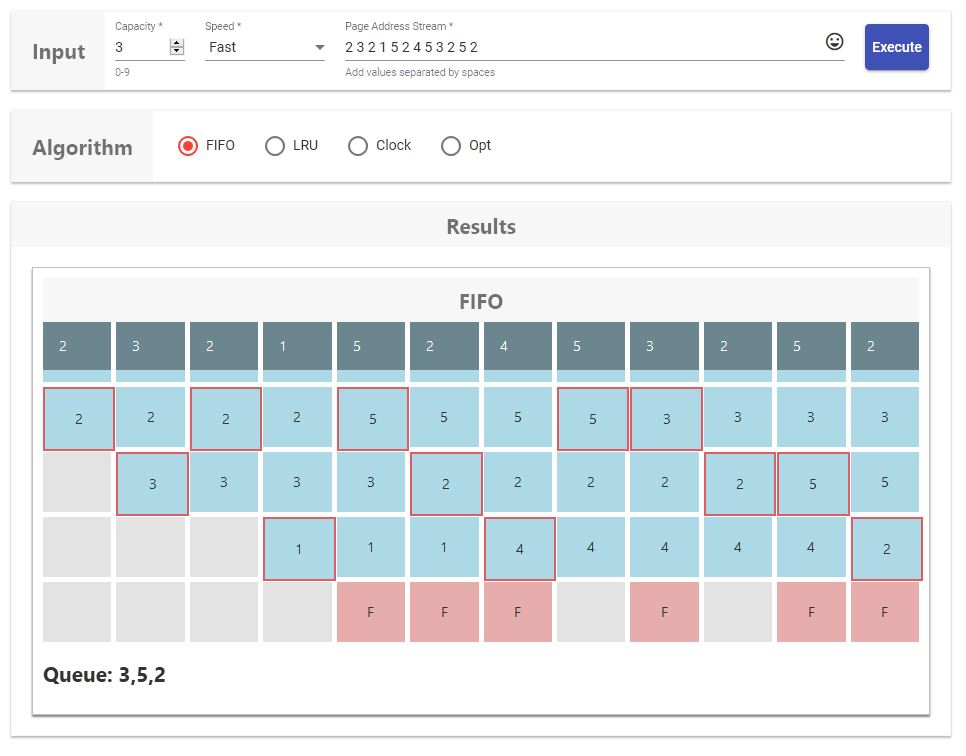
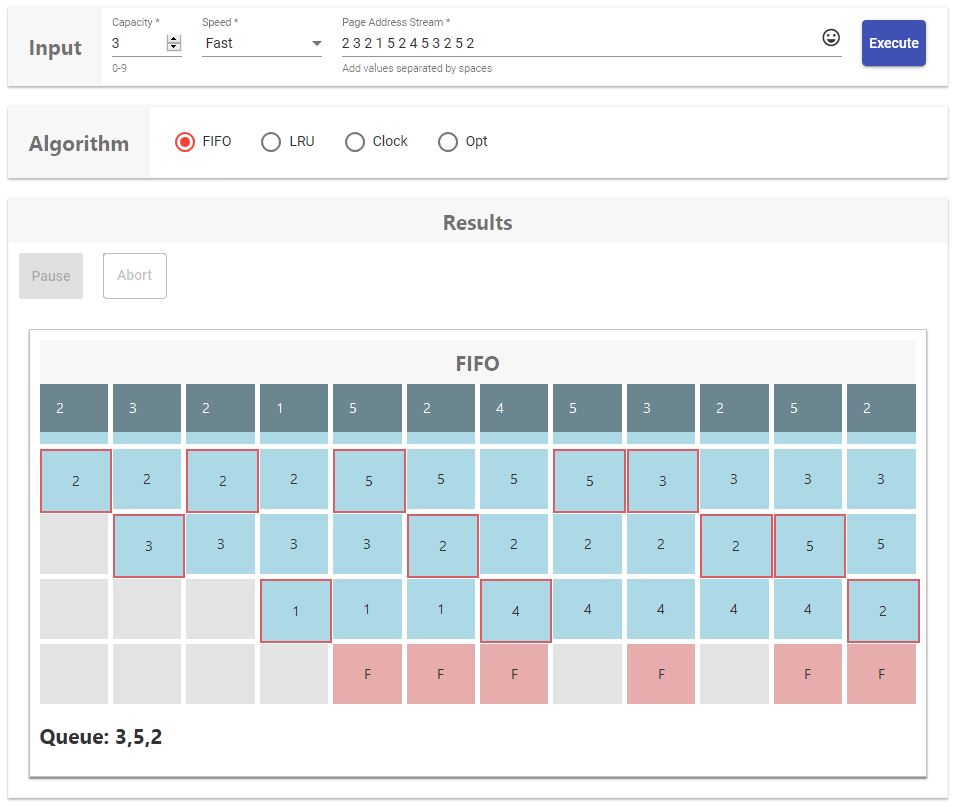
Fixed reponsive CSS. Added smoother scrolling

diff --git a/src/app/app.component.html b/src/app/app.component.html
@@ -33,7 +33,7 @@
       <mat-hint>Add values separated by spaces</mat-hint>
     </mat-form-field>
 
-    <button mat-raised-button color="primary" style="padding: 5px; margin: inherit;" 
+    <button id="btnExecute" mat-raised-button color="primary" style="padding: 5px; margin: inherit;" 
       (click)="onExecute(stream.value, capacity.value, speed.value, algorithm.value)" [disabled]="executing">Execute</button>
   </section>
 
@@ -49,7 +49,7 @@
     </mat-radio-group>    
   </section>
 
-  <section class="section results">
+  <section id="resultPanel" class="section results">
     <mat-error *ngIf="error">{{ error }}</mat-error>
     <div class="title">
       <h1 style="margin: auto;">Results</h1>

diff --git a/src/app/app.component.css b/src/app/app.component.css
@@ -84,16 +84,26 @@
 
 @media screen and (max-width: 1000px) {
   .input-stream-form {
-    width: 50%;
+    width: 60%;
+  }
+
+  .section.input {
+    display: block;
   }
 }
 
 @media screen and (max-width: 680px) {
-  .section.input {
+  .input-algorithm-form {
     display: block;
   }
 
-  .input-algorithm-form {
-    display: block;
+  .mat-grid-tile .mat-grid-tile-header {
+    position: static;
+    overflow: initial;
+    height: 100%;
+  }
+
+  #btnExecute {
+    float: right;
   }
 }

diff --git a/src/app/app.component.ts b/src/app/app.component.ts
@@ -77,6 +77,9 @@ export class AppComponent implements OnInit {
         this.clockComponent.execute(stream, capacity, speed, this);
       else if (this.algorithmNum === 4)
         this.optComponent.execute(stream, capacity, speed, this);
+
+      const resultPanel = document.getElementById('resultPanel');
+      resultPanel.scrollIntoView({ behavior: "smooth", block: "start", inline: "nearest" });
     } catch (e) {
       this.error = e.message;
     }

diff --git a/src/styles.css b/src/styles.css
@@ -3,6 +3,7 @@
 html,
 body {
   height: 100%;
+  scroll-behavior: smooth;
 }
 
 body {
